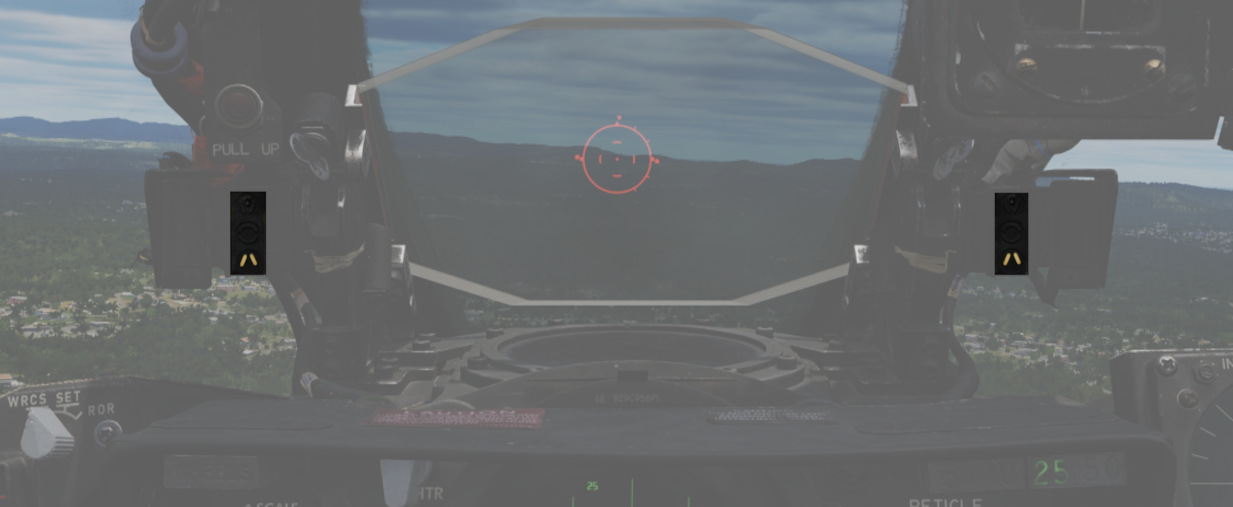
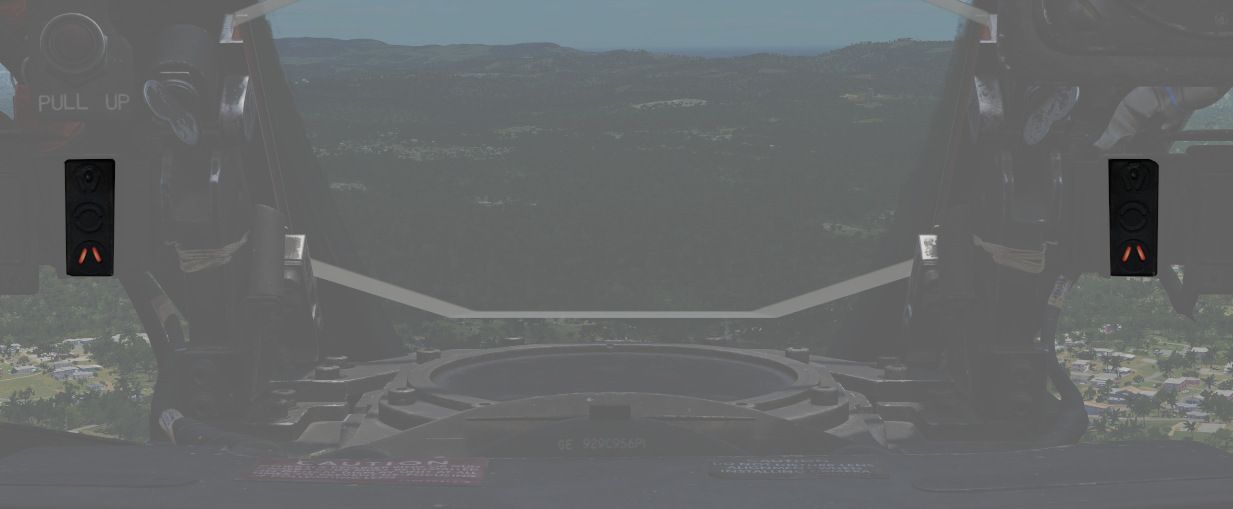
finished lcoss chapter and fixed aoa indexer colour

diff --git a/src/cockpit/wso/left_console/center_section.md b/src/cockpit/wso/left_console/center_section.md
@@ -19,7 +19,7 @@ Five position rotary switch (<num>1</num>) controlling power state of the
 [APQ-120 Radar.](../../../systems/radar/overview.md)
 
 | Name | Description                                                                                                                        |
-| ---- | ---------------------------------------------------------------------------------------------------------------------------------- |
+|------|------------------------------------------------------------------------------------------------------------------------------------|
 | OFF  | Powers radar off.                                                                                                                  |
 | TEST | Applies voltage to control monitor power and provides [BIT-test](../../../procedures/bit_tests/overview.md) functions 1 through 6. |
 | STBY | Power applied to radar, remains in a non-transmitting standby state.                                                               |
@@ -86,7 +86,8 @@ estimated correct speed-gate for the Sparrow when not tracking.
 
 ![Receiver Gain Knob](../../../img/wso_radar_receiver_gain.jpg)
 
-Coarse (outer ring, <num>8</num>) and Fine (inner knob, <num>7</num>) gain control for the radar
+Coarse (outer ring, <num>8</num>) and Fine (inner knob, <num>7</num>) gain control for the
+radar
 receiver. Larger values result in more noise and can cause display to become
 saturated. Lower values may result in lower detection ranges.
 
@@ -110,7 +111,7 @@ access specific mode functionality in conjunction with the Mode knob. The types
 are as follows:
 
 | Name     | Description                                                                                                   |
-| -------- | ------------------------------------------------------------------------------------------------------------- |
+|----------|---------------------------------------------------------------------------------------------------------------|
 | B WIDE   | Selects 120 degree B-sweep for search. Half-action places the sweep under manual Antenna Hand Control stick.  |
 | B NAR    | Selects a 45 degree B-sweep sector for search, which is manually shifted with the Antenna Hand Control stick. |
 | PPI WIDE | Selects a 120 degree wide plan position indicator sweep for MAP mode.                                         |
@@ -138,7 +139,7 @@ Three position switch (<num>11</num>) controlling radar pulse width and pulse
 repetition frequency (PRF).
 
 | Name  | Description                                                                                                           |
-| ----- | --------------------------------------------------------------------------------------------------------------------- |
+|-------|-----------------------------------------------------------------------------------------------------------------------|
 | AUTO  | Uses Power Level Mode Switching to determine best Pulse selection. Selects short pulse is used for acquire and track. |
 | LONG  | Wide pulse width and low PRF, allowing maximum range detection; no track automatic pulse adjustment.                  |
 | SHORT | Narrow pulse width with high PRF for increased close range performance.                                               |
@@ -153,7 +154,7 @@ A six position rotary switch (<num>14</num>) that determines the current base
 mode of operation of the radar.
 
 | Name    | Description                                                                                                                                                                                                  |
-| ------- | ------------------------------------------------------------------------------------------------------------------------------------------------------------------------------------------------------------ |
+|---------|--------------------------------------------------------------------------------------------------------------------------------------------------------------------------------------------------------------|
 | BST     | Air-to-Air boresight with antenna aligned radar boresight line and optical sight with sight in A/A.                                                                                                          |
 | RDR     | Search Mode with Feedhorn Nutation (wider beam-width) mode.                                                                                                                                                  |
 | MAP     | Search Mode without Feedhorn Nutation (narrower beam-width)                                                                                                                                                  |
@@ -238,22 +239,23 @@ They are automatically set by the ground crew when rearming.
 
 A rotary switch knob (<num>7</num>) that controls the amount of dispensed chaff.
 
-| Name | Description                                                                 |
-| ---- | --------------------------------------------------------------------------- |
-| OFF  | Chaff system inactive.                                                      |
-| SGL  | A single burst commanded when dispense button pressed.                      |
-| MULT | A salvo commanded according to program when either dispense button pressed. |
+| Name | Description                                                                                                                                                                    |
+|------|--------------------------------------------------------------------------------------------------------------------------------------------------------------------------------|
+| OFF  | Chaff system inactive.                                                                                                                                                         |
+| SGL  | A single **burst** commanded when dispense button pressed.                                                                                                                     |
+| MULT | A **salvo** commanded according to [programmer](../../../systems/defensive_systems/countermeasures.md#programmer---pilot-cockpit)  when either dispense button pressed.        |
+| PROG | Multiple **salvos** commanded according to [programmer](../../../systems/defensive_systems/countermeasures.md#programmer---pilot-cockpit) when either dispense button pressed. |   
 
 ### Flare Mode Knob
 
 A rotary switch knob (<num>4</num>) that controls the amount of dispensed
 flares.
 
-| Name | Description                                                                 |
-| ---- | --------------------------------------------------------------------------- |
-| OFF  | Flare system inactive.                                                      |
-| SGL  | A single burst commanded when dispense button pressed.                      |
-| MULT | A salvo commanded according to program when either dispense button pressed. |
+| Name | Description                                                                                                                                                            |
+|------|------------------------------------------------------------------------------------------------------------------------------------------------------------------------|
+| OFF  | Flare system inactive.                                                                                                                                                 |
+| SGL  | A single **burst** commanded when dispense button pressed.                                                                                                             |
+| PROG | A **salvo** commanded according to [programmer](../../../systems/defensive_systems/countermeasures.md#programmer---pilot-cockpit) when either dispense button pressed. |
 
 ### Indicator Lights
 

diff --git a/src/systems/weapon_systems/lcoss.md b/src/systems/weapon_systems/lcoss.md
@@ -1,6 +1,6 @@
 # Lead computing optical sight system (LCOSS)
 
-![f4_lcoss_caged](../../img/pilot_awru.jpg) TODO change
+![f4_lcoss_caged](../../img/f4_lcoss_caged.jpg) 
 
 The lead computing optical sight system or short LCOSS, is used to establish a visual
 sight
@@ -14,7 +14,7 @@ Knob.
 
 ### Sight mode knob
 
-![f4_lcoss_sight_mode_knob]()
+![f4_lcoss_sight_mode_knob](../../img/f4_lcoss_sight_mode_knob.jpg)
 
 The sight mode knob selects the mode of operations which are the following:
 
@@ -29,7 +29,7 @@ The sight mode knob selects the mode of operations which are the following:
 
 ### Reticle depression control
 
-![f4_lcoss_reticle_depression]()
+![f4_lcoss_reticle_depression](../../img/f4_lcoss_reticle_depression.jpg)
 
 The reticle can be depressed by rotating the reticle depression knob until the readout (in
 one-mil
@@ -38,13 +38,13 @@ azimuth.
 
 ### Reticle intensity control
 
-![f4_lcoss_intensity]()
+![f4_lcoss_intensity](../../img/f4_lcoss_reticle_intensity.jpg)
 
 Rotating the reticle intensity control knob changes the brightness of the reticle.
 
 ### Shutter lever control
 
-![f4_lcoss_shutter_lever]()
+![f4_lcoss_shutter_lever](../../img/f4_lcoss_sight_shutter.jpg)
 
 The shutter control lever is a two position lever with positions of CL (closed) and OPEN.
 In the CL
@@ -67,3 +67,34 @@ tabs provide steering information from the WRCS. The position of the roll tabs, 
 respect to the fixed index tabs, indicates the angle between the ground track and course
 to the target. In every other mode of operation the roll tabs indicate the aircraft roll
 attitude, supplied by the INS.
+
+| Roll tab left roll                                          | Roll tab right roll                                           |   
+|-------------------------------------------------------------|---------------------------------------------------------------|
+| ![f4_lcoss_roll_tab_left](../../img/f4_lcoss_left_roll.jpg) | ![f4_lcoss_roll_tab_right](../../img/f4_lcoss_right_roll.jpg) |
+
+The range bar is semicircular and appears on the inside of
+the 50-mil circle only when a target has been acquired by radar lockon. The instantaneous
+length of the range bar, and the rate at which the length is changing indicates the actual
+radar slant range and the range between the aircraft and the target. The minimum length of
+the range bar (and minimum range indication) exists at the 6 o'clock position. With gun
+selected the inside tab of the range bar at 6 o'clock, the actual radar range is 1000 ft.
+At the 5 o'clock position the range bar is 2000ft continuing with 1000ft increments per
+tab. The maximum range that can be shown is 6667ft with guns selected. When any other mode
+than GUN is selected the range bar is 3000ft at the 6 o'clock position and 6000ft at the 5
+o'clock position, with increments of 3000ft per tab. The maximum displayable range is then
+20000ft.
+
+| Range bar with guns                                              | Range bar in any other mode                                     |
+|------------------------------------------------------------------|-----------------------------------------------------------------|
+| ![f4_lcoss_range_bar_guns](../../img/f4_lcoss_rangebar_guns.jpg) | ![f4_lcoss_range_bar](../../img/f4_lcoss_rangebar_not_guns.jpg) |
+
+## Reticle Cage Function
+
+The reticle cage function is applied through the CAGE button on the throttle. With the
+sight operating in the (GUNS) A/A mode and with CAGE pressed (no radar lockon) the reticle
+is caged at radar boresight line (RBL). When CAGE is released, a pseudo range of 1000ft is
+supplied to the computer but the range bar is not displayed. With radar lockon the
+stiffening function is applied as long as CAGE is pressed. The range bar continues to
+indicate the actual radar range or the maximum displayable range. When CAGE is released
+the reticle moves in azimuth elevation to display the lead required to a maximum of
+4000ft. This will only happen with GUNS selected.
